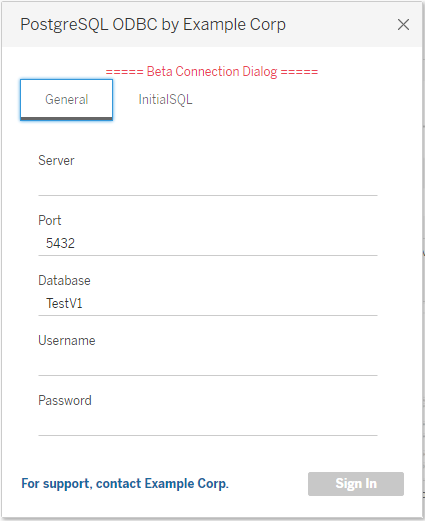
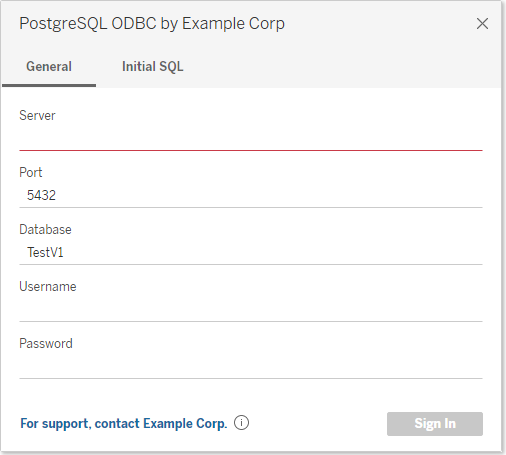
Update connection dialog screenshots in V2 doc page to remove "Beta" message

Changed region(s): [[0.0, 0.0, 1.0, 1.0], [0.0918, 0.8308, 0.8871, 0.8615]]

diff --git a/docs/mcd.md b/docs/mcd.md
@@ -244,6 +244,8 @@ The images show the Connection Dialog produced using the Connection Fields file 
 
 This example shows how to add a checkbox to the dialog. For sslmode custom boolean values are required to be defined, following 'Connection Field Platform Integration' section below.  The default-value matches false-value, ensuring the checkbox is unchecked by default.  Within the ConnectionBuilder() the field "sslmode" will only have value "" or "require".
 
+![alt text]({{ site.baseurl }}/assets/mcd-connection-dialog-4.png "Connection Dialog with a 'Require SSL' checkbox")
+
 ```xml
 <?xml version="1.0" encoding="utf-8"?>
 
